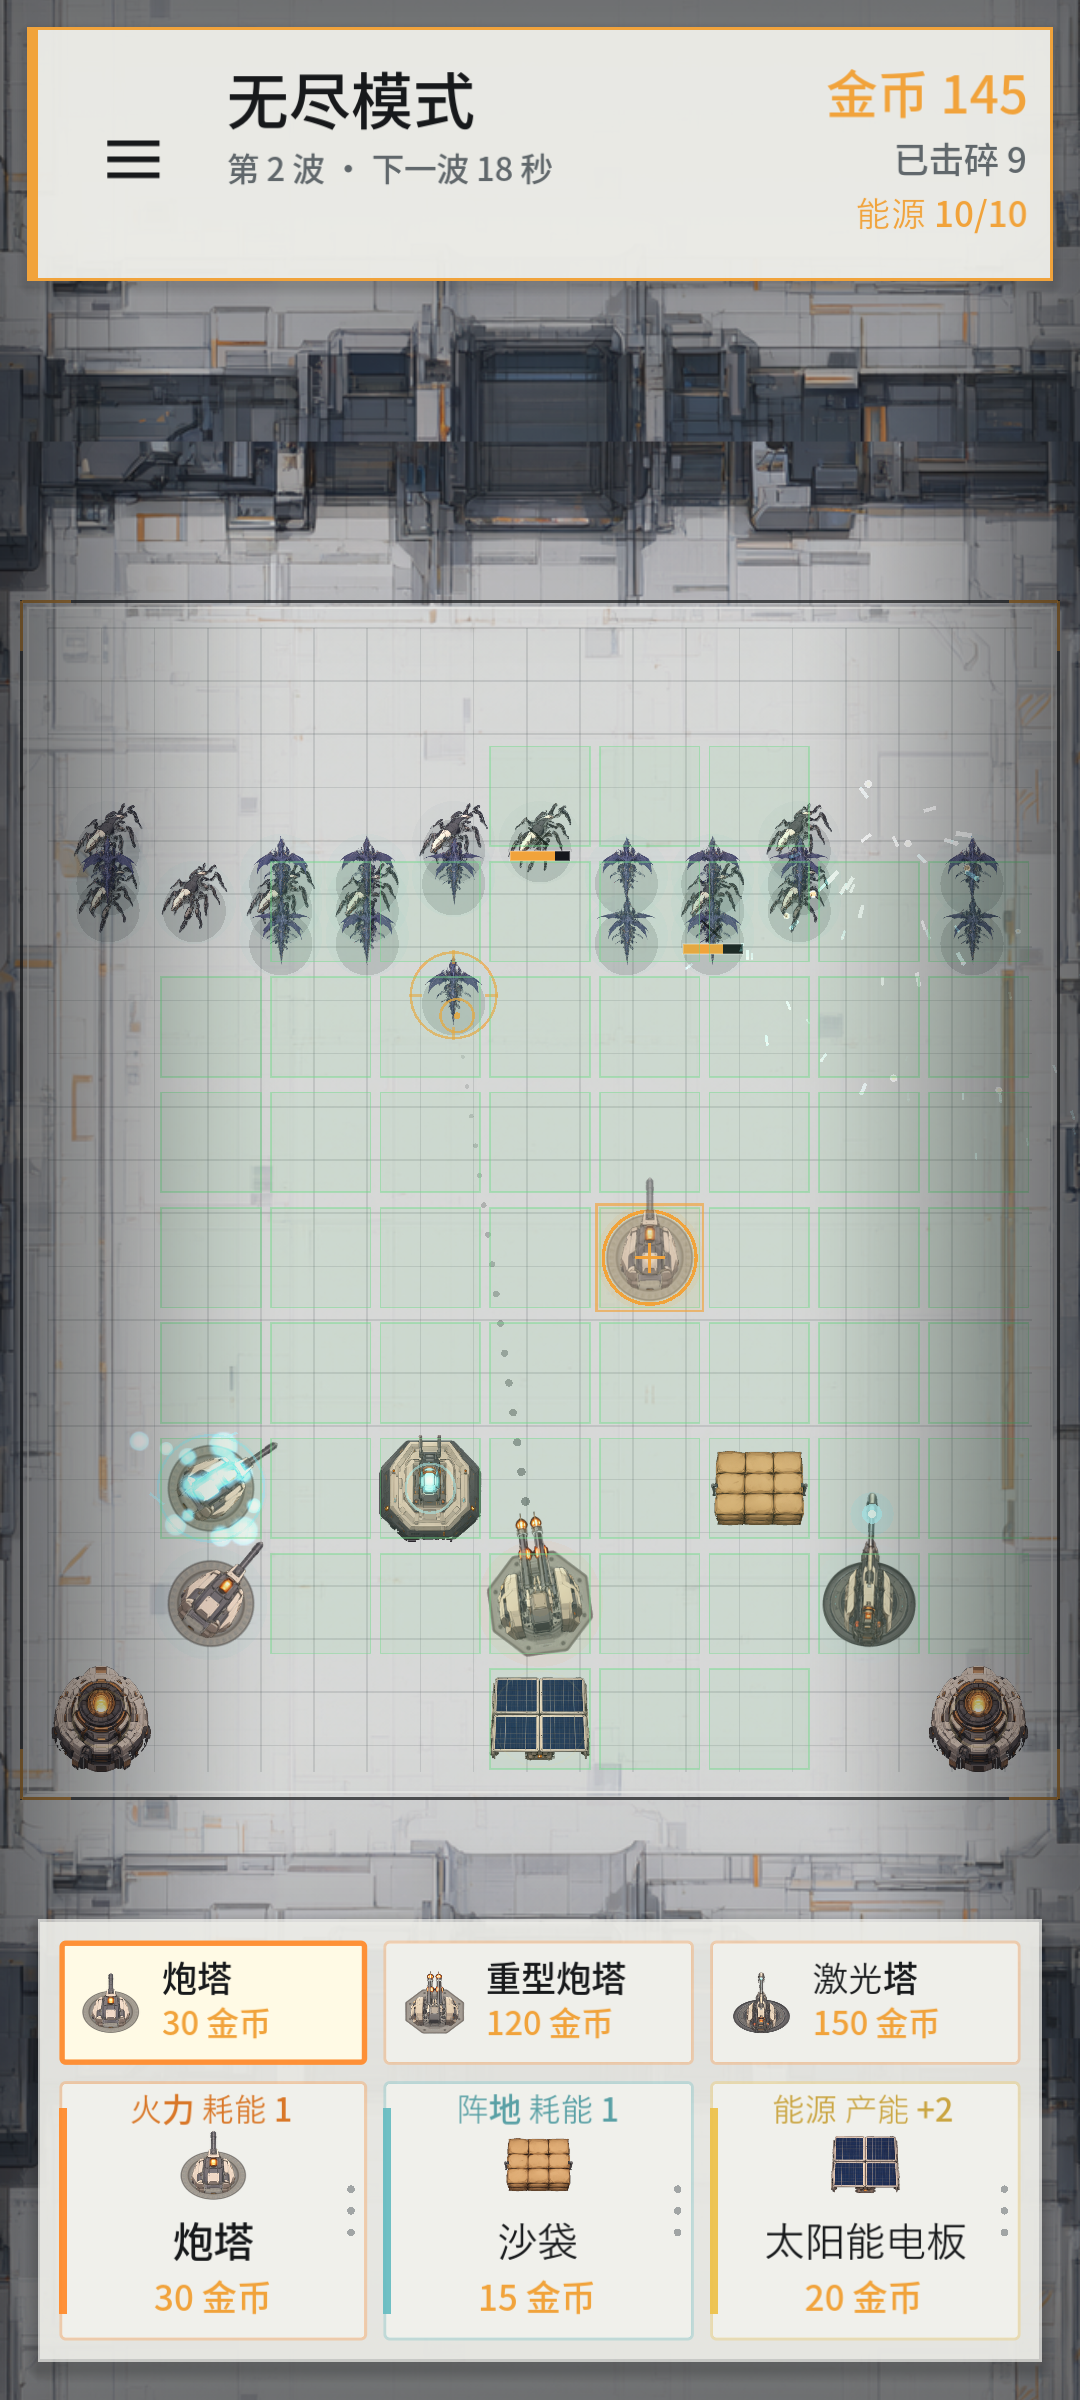
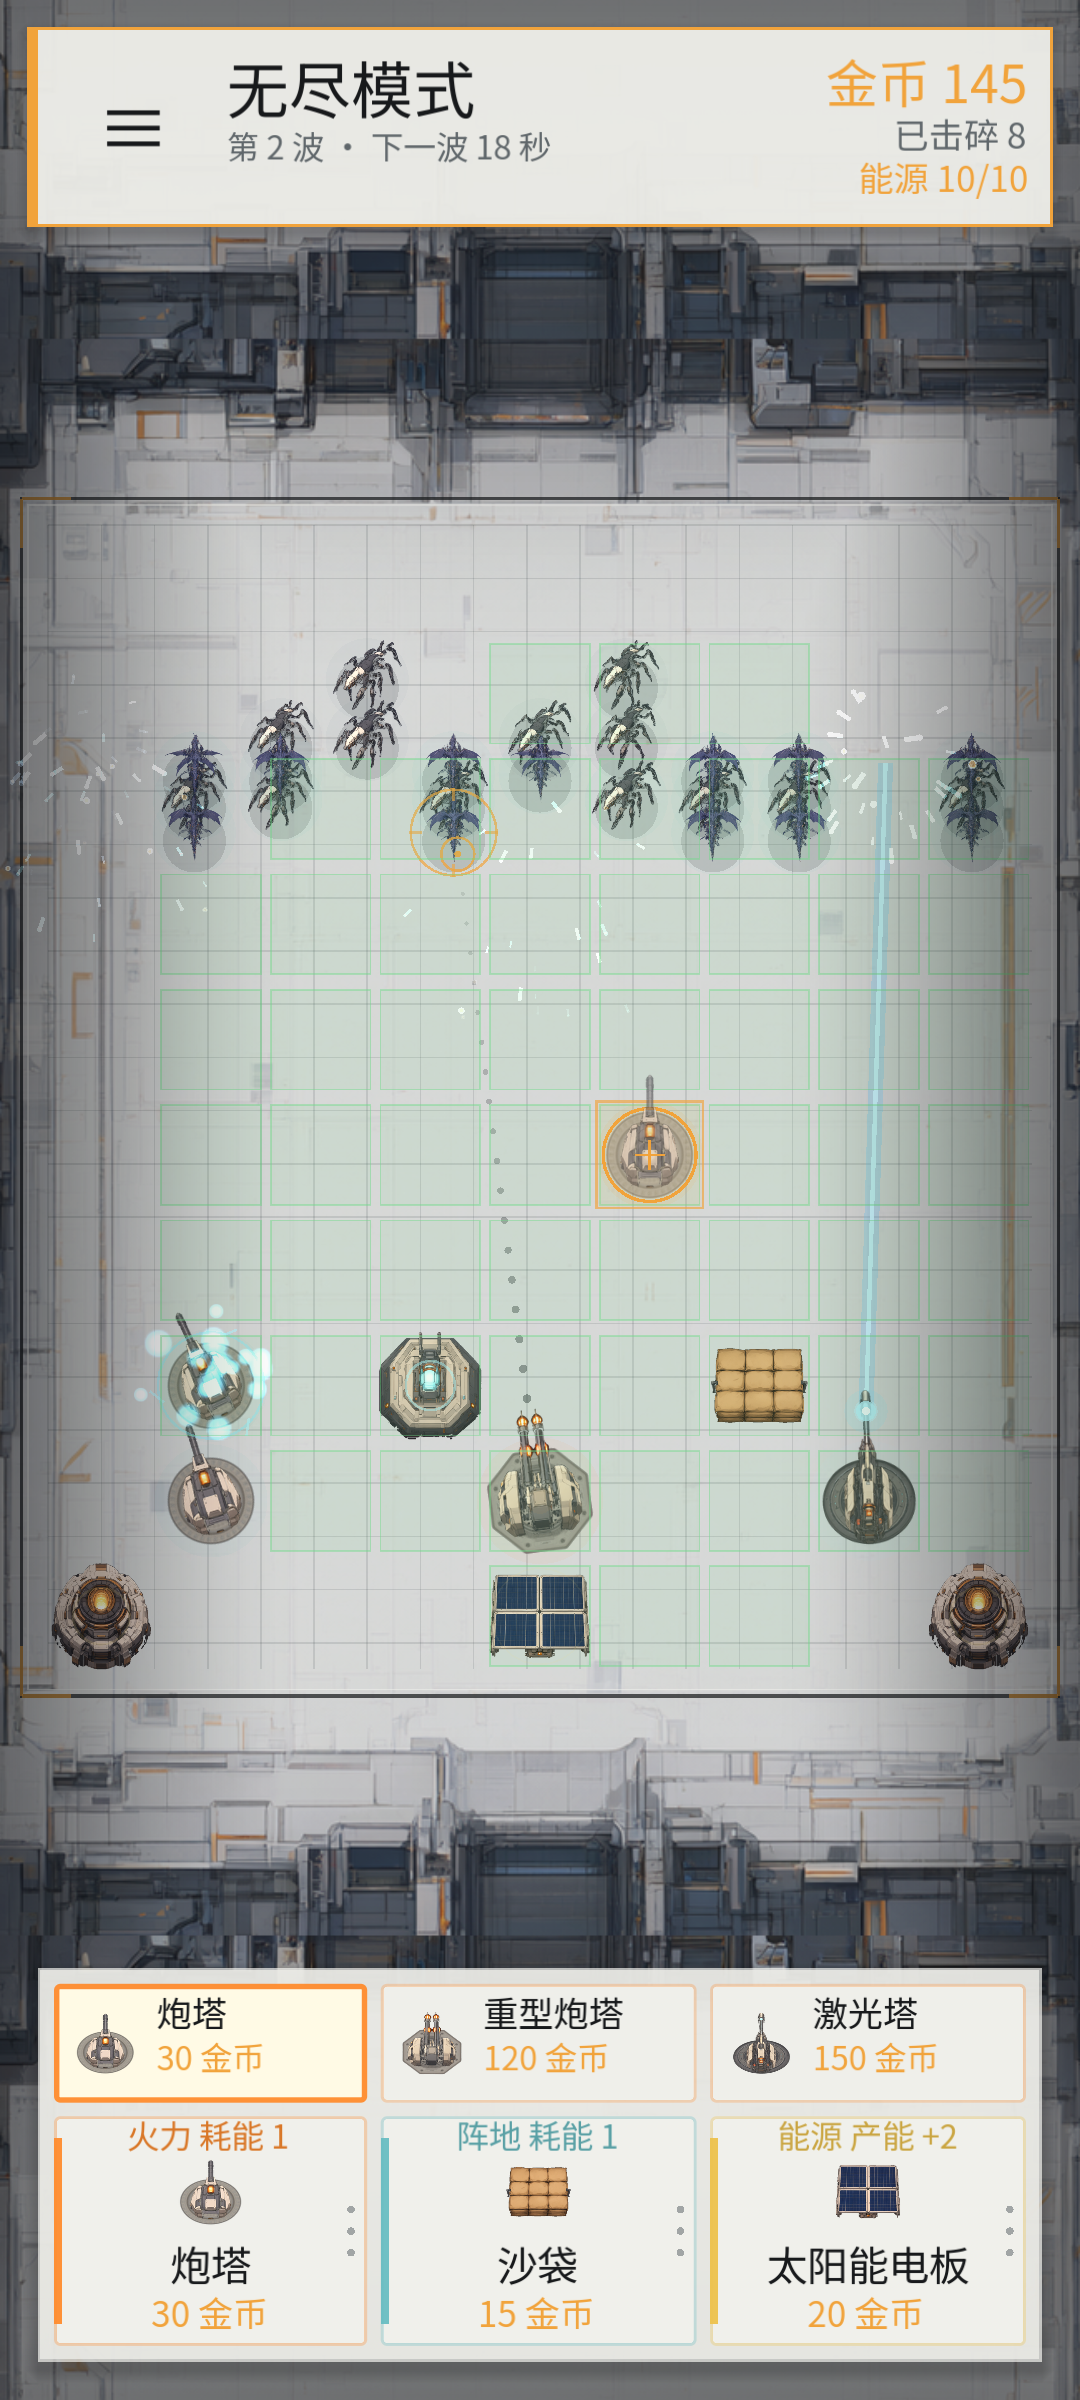
fix: 压缩上下 UI 高度并让战场完整落在两栏之间

diff --git a/README.md b/README.md
@@ -127,7 +127,7 @@ Godot_v4.7.2-stable_win64.exe --path .
 ## 移动端界面尺寸
 
 - 设计视口从 720×960 改为 400×800。之前 13px 的正文在 1080×2400 手机上只有约 5dp，按钮只有约 17dp，按不到也看不清；现在同样的数值直接对应手机上的 dp。
-- 可点击控件短边不小于 48（HUD 设置键 52、类别卡 92、道具项 46、聚焦面板按钮 50～58、设置项 56、主菜单 66）；正文 15～17，标题 21～42。
+- 可点击控件短边不小于 48（HUD 设置键 52、类别卡 84、道具项 44、聚焦面板按钮 50～58、设置项 56、主菜单 66）；正文 15～17，标题 21～42。
 - 底部栏分两层：上方道具列表、下方类别卡；选中道具后拖类别卡到场上，再拖一次选朝向。聚焦面板改为贴底宽面板，拆除按钮落在拇指区；主界面「开始行动」移到底部。
 - 建筑点击判定半径从 34 世界单位放宽到 46，并改为选取最近的一座。
 - 尺寸基线集中在 `scripts/ui_metrics.gd`，各界面统一引用；回归测试会检查控件短边和正文字号。
@@ -137,10 +137,11 @@ Godot_v4.7.2-stable_win64.exe --path .
 - 游戏锁定纯竖屏；设计视口为 400×800，使用 `canvas_items` 与 `expand`。
 - HUD、主界面和设置使用 Anchors、MarginContainer、HBoxContainer、VBoxContainer 与内容驱动尺寸。
 - 商店位于底部，上方是当前类别的道具列表，下方是三类卡；主界面功能菜单位于底部拇指区。移动设备读取安全区域，避开刘海与系统手势区。
-- 战场 Camera 只按屏幕宽度缩放，左右各保留 8 逻辑像素，不根据高度反向压缩；地图向上下延伸。
+- HUD、商店与战场共用 `scripts/responsive_layout.gd` 里的同一组矩形：HUD 高 74、商店高 146，两者合计不到屏幕高度的 28%。
+- 战场 Camera 在 HUD 与商店之间的可用区里居中缩放，宽度能放下就贴满宽度，高度不够时再按高度收缩，整张地图始终完整可见，不会被上下栏遮住。
 - 屏幕／触摸坐标经过 Camera 变换后再用于点击和拖拽部署；主界面背景等比覆盖，不拉伸人物。
 
-响应式回归测试覆盖 720×960、1000×2000、1080×1920、1080×2400，并动态检查战场实际边界宽度、面板边界、菜单位置、设置面板、触摸拖拽部署与朝向确认，以及按钮短边和正文字号：
+响应式回归测试覆盖 720×960、1000×2000、1080×1920、1080×2400，并动态检查战场是否完整落在 HUD 与商店之间、是否用满可用区，以及面板边界、菜单位置、设置面板、触摸拖拽部署与朝向确认、按钮短边和正文字号：
 
 ```bash
 Godot_v4.7.2-stable_win64.exe --headless --fixed-fps 60 --path . res://tools/responsive_test.tscn
